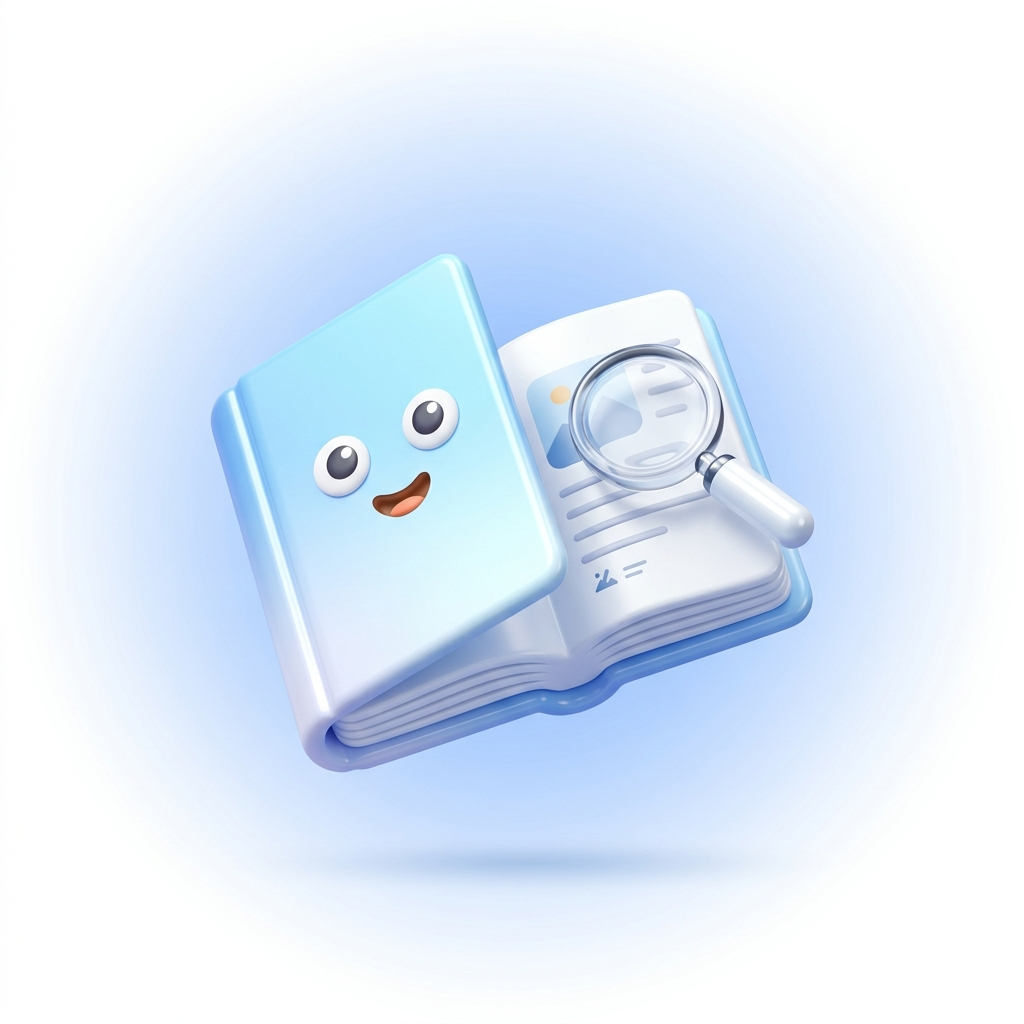
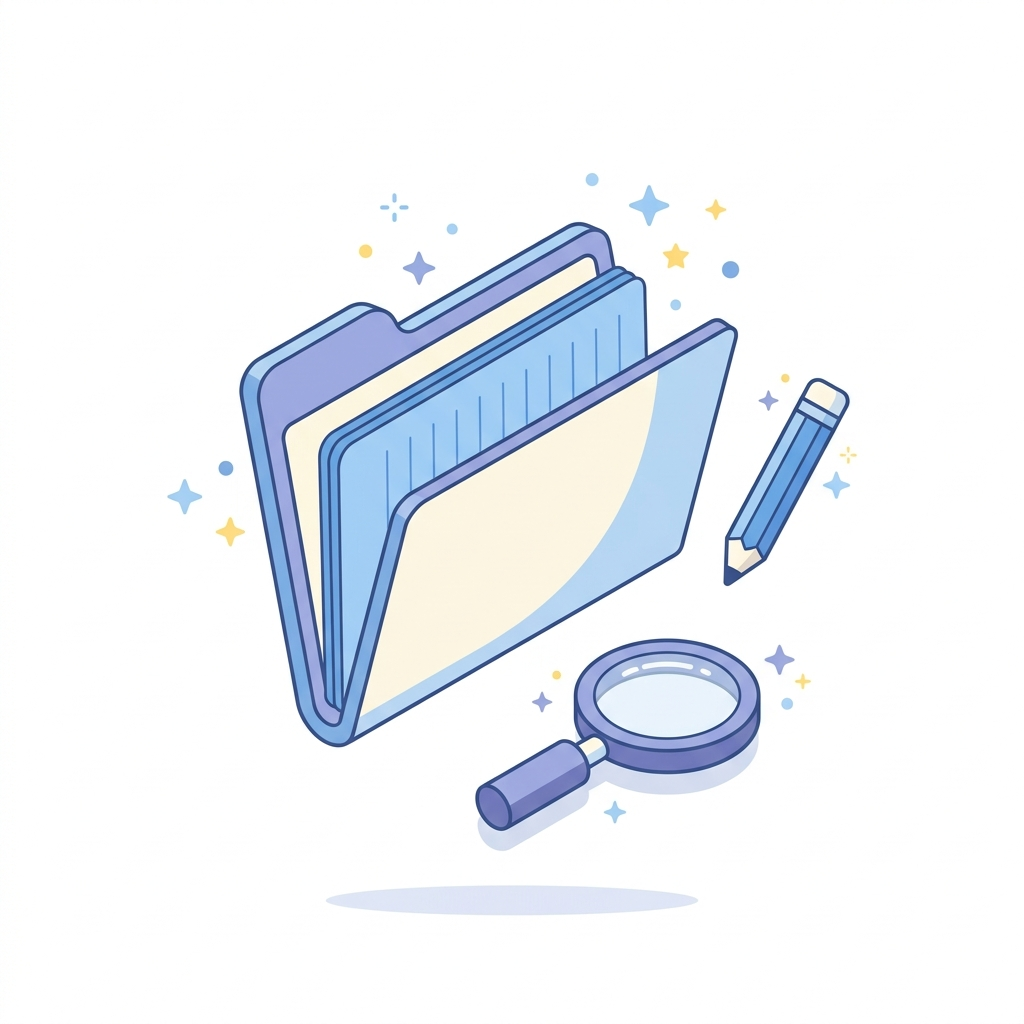
add illustrations

diff --git a/src/app/subjects/SubjectsContent.tsx b/src/app/subjects/SubjectsContent.tsx
@@ -69,34 +69,46 @@ export default function SubjectsContent() {
         <PageTransition>
           <section className="page-shell">
             <header className="page-header">
-              <div style={{ display: 'flex', justifyContent: 'space-between', alignItems: 'flex-start', flexWrap: 'wrap', gap: '16px', width: '100%' }}>
+              <div style={{ display: 'flex', justifyContent: 'space-between', alignItems: 'center', flexWrap: 'wrap', gap: '16px', width: '100%' }}>
                 <div>
-                  <p className="eyebrow flex flex-col items-center gap-2">
+                  <p className="eyebrow flex items-center gap-2">
                     <BookOpen className="w-3.5 h-3.5" />
                     {t.common.lessonPath}
                   </p>
                   <h1>{t.subjects.title}</h1>
                   <p className="page-header__lead">{t.subjects.lead}</p>
+                  {user?.schoolLevel ? (
+                    <div style={{ marginTop: '12px' }}>
+                      <span
+                        style={{
+                          display: 'inline-flex',
+                          alignItems: 'center',
+                          gap: '8px',
+                          padding: '8px 18px',
+                          borderRadius: '9999px',
+                          background: 'linear-gradient(135deg, rgba(59, 130, 246, 0.12), rgba(99, 102, 241, 0.12))',
+                          border: '1px solid rgba(59, 130, 246, 0.3)',
+                          color: 'var(--primary-hover)',
+                          fontWeight: '700',
+                          fontSize: '0.9rem'
+                        }}
+                      >
+                        <GraduationCap className="w-4 h-4 text-blue-600" />
+                        {t.levels[user.schoolLevel] || t.common.levelBadge(user.schoolLevel)}
+                      </span>
+                    </div>
+                  ) : null}
                 </div>
-                {user?.schoolLevel ? (
-                  <span
-                    style={{
-                      display: 'inline-flex',
-                      alignItems: 'center',
-                      gap: '8px',
-                      padding: '8px 18px',
-                      borderRadius: '9999px',
-                      background: 'linear-gradient(135deg, rgba(59, 130, 246, 0.12), rgba(99, 102, 241, 0.12))',
-                      border: '1px solid rgba(59, 130, 246, 0.3)',
-                      color: 'var(--primary-hover)',
-                      fontWeight: '700',
-                      fontSize: '0.9rem'
-                    }}
-                  >
-                    <GraduationCap className="w-4 h-4 text-blue-600" />
-                    {t.levels[user.schoolLevel] || t.common.levelBadge(user.schoolLevel)}
-                  </span>
-                ) : null}
+                <div className="page-header__illustration-box">
+                  <Image
+                    src="/learning-illustration.jpg"
+                    alt="Learning Curriculum"
+                    width={130}
+                    height={130}
+                    className="page-header__illustration"
+                    priority
+                  />
+                </div>
               </div>
             </header>
 

diff --git a/src/app/placement/page.tsx b/src/app/placement/page.tsx
@@ -95,25 +95,39 @@ export default function PlacementPage() {
         <PageTransition>
           <section className="page-shell">
             <header className="page-header">
-              <div>
-                <p className="eyebrow">
-                  <Target className="w-3.5 h-3.5" />
-                  {t.placement.eyebrow}
-                </p>
-                <h1>{t.placement.title}</h1>
-                <p className="page-header__lead">{t.placement.lead}</p>
-              </div>
-
-              {totalQuestions > 0 && (
-                <div className="quiz-progress" style={{ minWidth: 220 }}>
-                  <div className="quiz-progress__bar">
-                    <span style={{ width: `${progressPct}%` }} />
-                  </div>
-                  <small>
-                    {t.placement.progressText(answeredCount, totalQuestions, progressPct)}
-                  </small>
+              <div style={{ display: 'flex', justifyContent: 'space-between', alignItems: 'center', flexWrap: 'wrap', gap: '20px', width: '100%' }}>
+                <div>
+                  <p className="eyebrow">
+                    <Target className="w-3.5 h-3.5" />
+                    {t.placement.eyebrow}
+                  </p>
+                  <h1>{t.placement.title}</h1>
+                  <p className="page-header__lead">{t.placement.lead}</p>
                 </div>
-              )}
+
+                <div style={{ display: 'flex', alignItems: 'center', gap: '20px', flexWrap: 'wrap' }}>
+                  {totalQuestions > 0 && (
+                    <div className="quiz-progress" style={{ minWidth: 200 }}>
+                      <div className="quiz-progress__bar">
+                        <span style={{ width: `${progressPct}%` }} />
+                      </div>
+                      <small>
+                        {t.placement.progressText(answeredCount, totalQuestions, progressPct)}
+                      </small>
+                    </div>
+                  )}
+                  <div className="page-header__illustration-box">
+                    <Image
+                      src="/quiz-illustration.jpg"
+                      alt="Placement Quiz Illustration"
+                      width={110}
+                      height={110}
+                      className="page-header__illustration"
+                      priority
+                    />
+                  </div>
+                </div>
+              </div>
             </header>
 
             {/* Video / how-it-works section */}

diff --git a/src/app/globals.css b/src/app/globals.css
@@ -519,6 +519,32 @@ a {
   margin-bottom: 32px;
 }
 
+.page-header__illustration-box {
+  flex-shrink: 0;
+  display: flex;
+  align-items: center;
+  justify-content: center;
+}
+
+.page-header__illustration {
+  width: 120px;
+  height: 120px;
+  object-fit: contain;
+  border-radius: 16px;
+  box-shadow: 0 4px 14px rgba(0, 0, 0, 0.05);
+  transition: transform 0.3s ease;
+}
+
+.page-header__illustration:hover {
+  transform: scale(1.05);
+}
+
+@media (max-width: 640px) {
+  .page-header__illustration-box {
+    display: none;
+  }
+}
+
 .page-header h1,
 .landing h1,
 .auth-hero h1 {
@@ -1072,6 +1098,26 @@ a {
 
 .auth-hero__badge {
   margin-bottom: 16px;
+}
+
+.auth-hero__illustration-wrapper {
+  display: flex;
+  justify-content: center;
+  margin-bottom: 24px;
+}
+
+.auth-hero__illustration {
+  border-radius: 16px;
+  max-width: 220px;
+  width: 100%;
+  height: auto;
+  object-fit: contain;
+  box-shadow: 0 10px 25px -5px rgba(0, 0, 0, 0.08), 0 8px 10px -6px rgba(0, 0, 0, 0.04);
+  transition: transform 0.3s ease;
+}
+
+.auth-hero__illustration:hover {
+  transform: translateY(-3px) scale(1.02);
 }
 
 .auth-hero h1 {

diff --git a/src/components/auth/AuthForm.tsx b/src/components/auth/AuthForm.tsx
@@ -2,6 +2,7 @@
 
 import { FormEvent, useEffect, useState } from "react";
 import Link from "next/link";
+import Image from "next/image";
 import { useAuth } from "@/lib/auth-context";
 import type { AuthMode } from "@/lib/types";
 import { useLocale } from "@/lib/i18n";
@@ -104,6 +105,16 @@ export function AuthForm({ initialMode = "login", switchHref }: AuthFormProps) {
       <section className="auth-shell">
         <FadeIn>
           <div className="auth-hero">
+            <div className="auth-hero__illustration-wrapper">
+              <Image
+                src="/auth-illustration.jpg"
+                alt="Education Illustration"
+                width={240}
+                height={240}
+                className="auth-hero__illustration"
+                priority
+              />
+            </div>
             <h1>{isLogin ? t.auth.loginTitle : t.auth.signupTitle}</h1>
             <p className="auth-hero__copy">{isLogin ? t.auth.loginCopy : t.auth.signupCopy}</p>
             <div className="auth-hero__stats">

diff --git a/src/app/complete-profile/page.tsx b/src/app/complete-profile/page.tsx
@@ -1,5 +1,6 @@
 "use client";
 
+import Image from "next/image";
 import { FormEvent, useState } from "react";
 import { useAuth } from "@/lib/auth-context";
 import { useLocale } from "@/lib/i18n";
@@ -25,6 +26,16 @@ function CompleteProfileForm() {
         <FadeIn>
           <form className="auth-card" onSubmit={handleSubmit} style={{ maxWidth: '520px', margin: '0 auto', width: '100%' }}>
             <div className="auth-card__body">
+              <div style={{ display: 'flex', justifyContent: 'center', marginBottom: '16px' }}>
+                <Image
+                  src="/learning-illustration.jpg"
+                  alt="Profile Setup"
+                  width={120}
+                  height={120}
+                  className="rounded-2xl shadow-sm object-contain"
+                  priority
+                />
+              </div>
               <div className="auth-card__intro">
                 <p className="auth-card__eyebrow">
                   <Sparkles className="w-3.5 h-3.5 inline mr-1" />

diff --git a/src/app/page.tsx b/src/app/page.tsx
@@ -119,7 +119,7 @@ export default function HomePage() {
                 alt="Daam Éducation - Plateforme d'apprentissage primaire"
                 width={360}
                 height={360}
-                className="object-contain"
+                className="object-contain rounded-2xl"
                 priority
               />
             </div>
